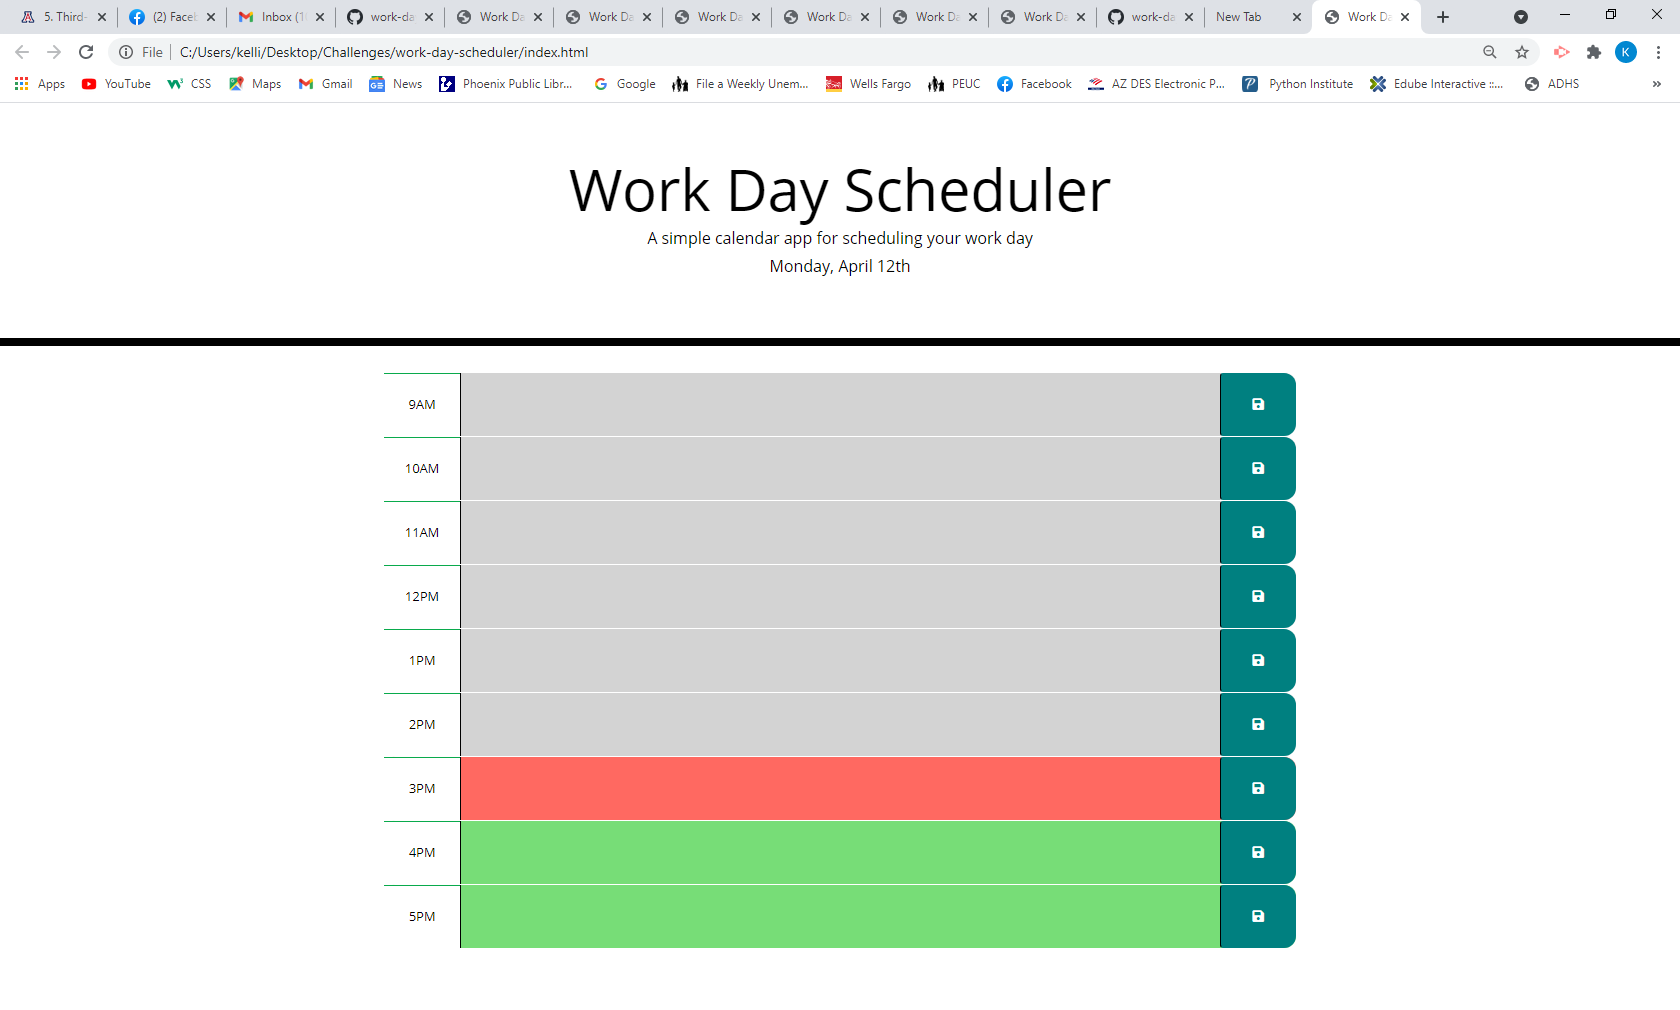
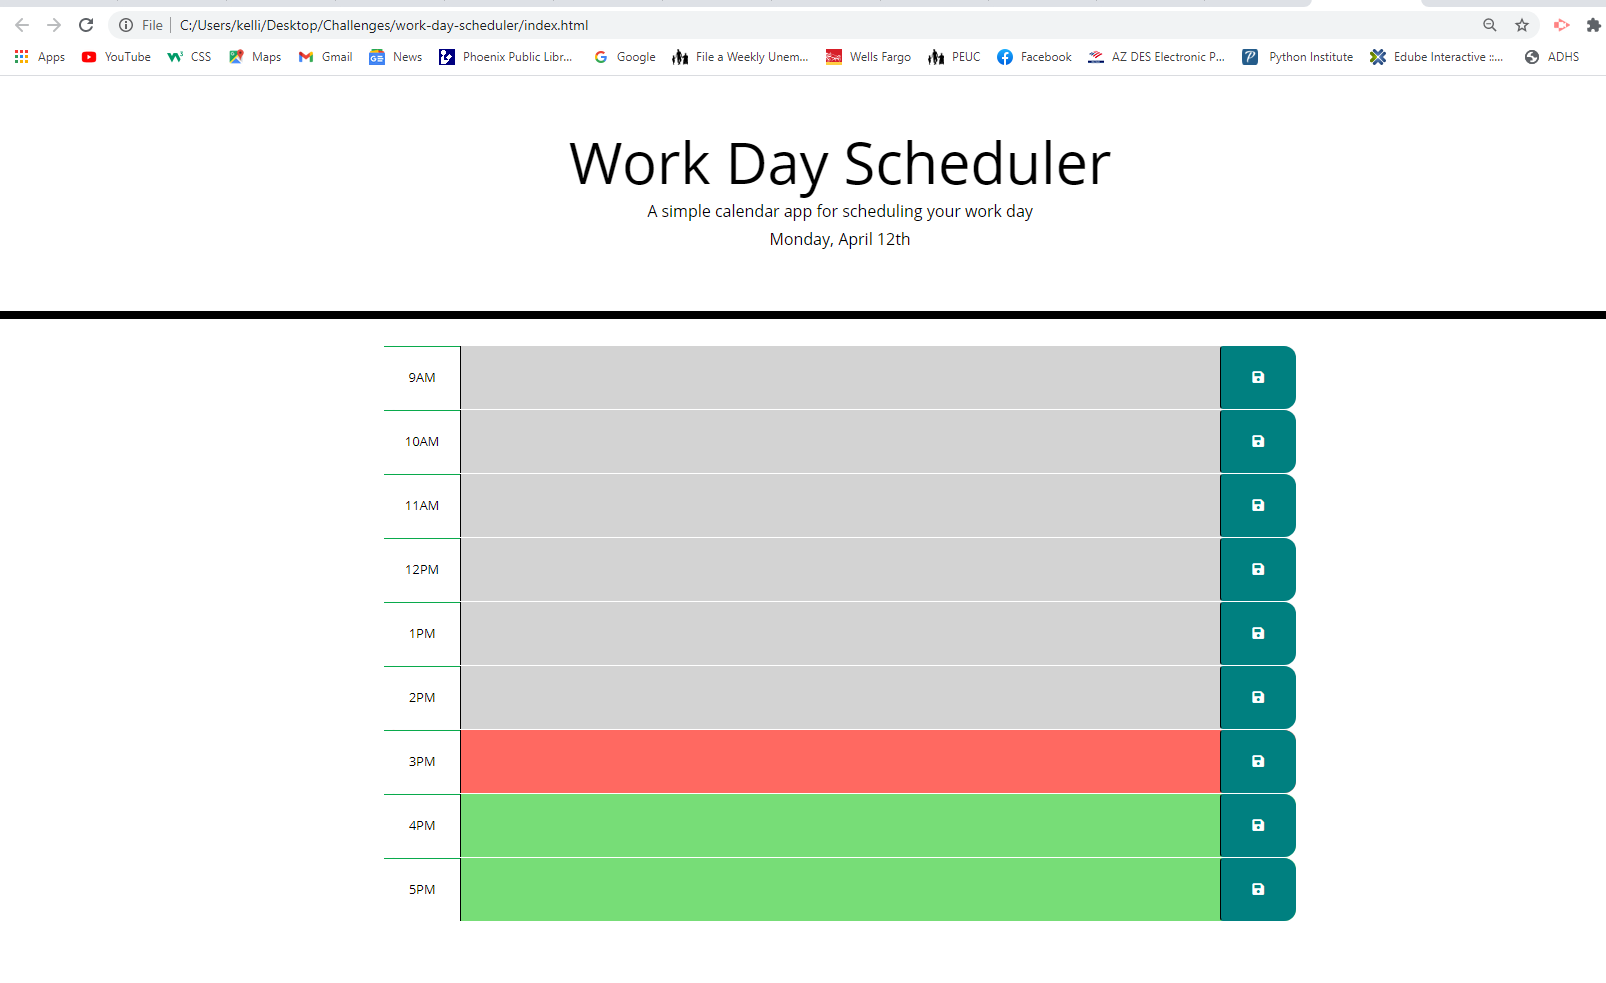
edited screenshots for readme

Changed region(s): [[0.0, 0.3052, 1.0, 0.9461], [0.0, 0.0, 1.0, 0.0916], [0.3425, 0.1526, 0.6849, 0.2747]]

diff --git a/index.html b/index.html
@@ -5,6 +5,7 @@
   <meta charset="UTF-8">
   <meta name="viewport" content="width=device-width, initial-scale=1.0">
   <meta http-equiv="X-UA-Compatible" content="ie=edge">
+
   <link rel="stylesheet" href="https://stackpath.bootstrapcdn.com/bootstrap/4.3.1/css/bootstrap.min.css">
   <link rel="stylesheet" href="https://use.fontawesome.com/releases/v5.8.1/css/all.css"
     integrity="sha384-50oBUHEmvpQ+1lW4y57PTFmhCaXp0ML5d60M1M7uH2+nqUivzIebhndOJK28anvf" crossorigin="anonymous">
@@ -22,15 +23,11 @@
     </br>
     <p id="currentDay" class="lead"></p>
   </header>
+
+  <!--beginning of hour block container-->
+
   <div class="container">
-    <div id="hour-9" class="row time-block">
-      <div class="col-md-1 hour">
-        9AM
-      </div>
-      <textarea class="col-md-10 description">
-      </textarea>
-      <button class="btn saveBtn col-md-1"><i class="fas fa-save"></i></button>
-    </div>
+    
     <div id="hour-10" class="row time-block">
       <div class="col-md-1 hour">
         10AM
@@ -95,6 +92,7 @@
       </textarea>
       <button class="btn saveBtn col-md-1"><i class="fas fa-save"></i></button>
     </div>
+ <!--end of hour block container-->
 
     <script src="https://code.jquery.com/jquery-3.4.1.min.js"></script>
     <script src="https://cdnjs.cloudflare.com/ajax/libs/moment.js/2.24.0/moment.min.js"></script>

diff --git a/assets/CSS/style.css b/assets/CSS/style.css
@@ -11,7 +11,7 @@ text-decoration: underline;
 }
 
 
-textarea{
+textarea {
   background: transparent;
   border: none;
   resize: none;
